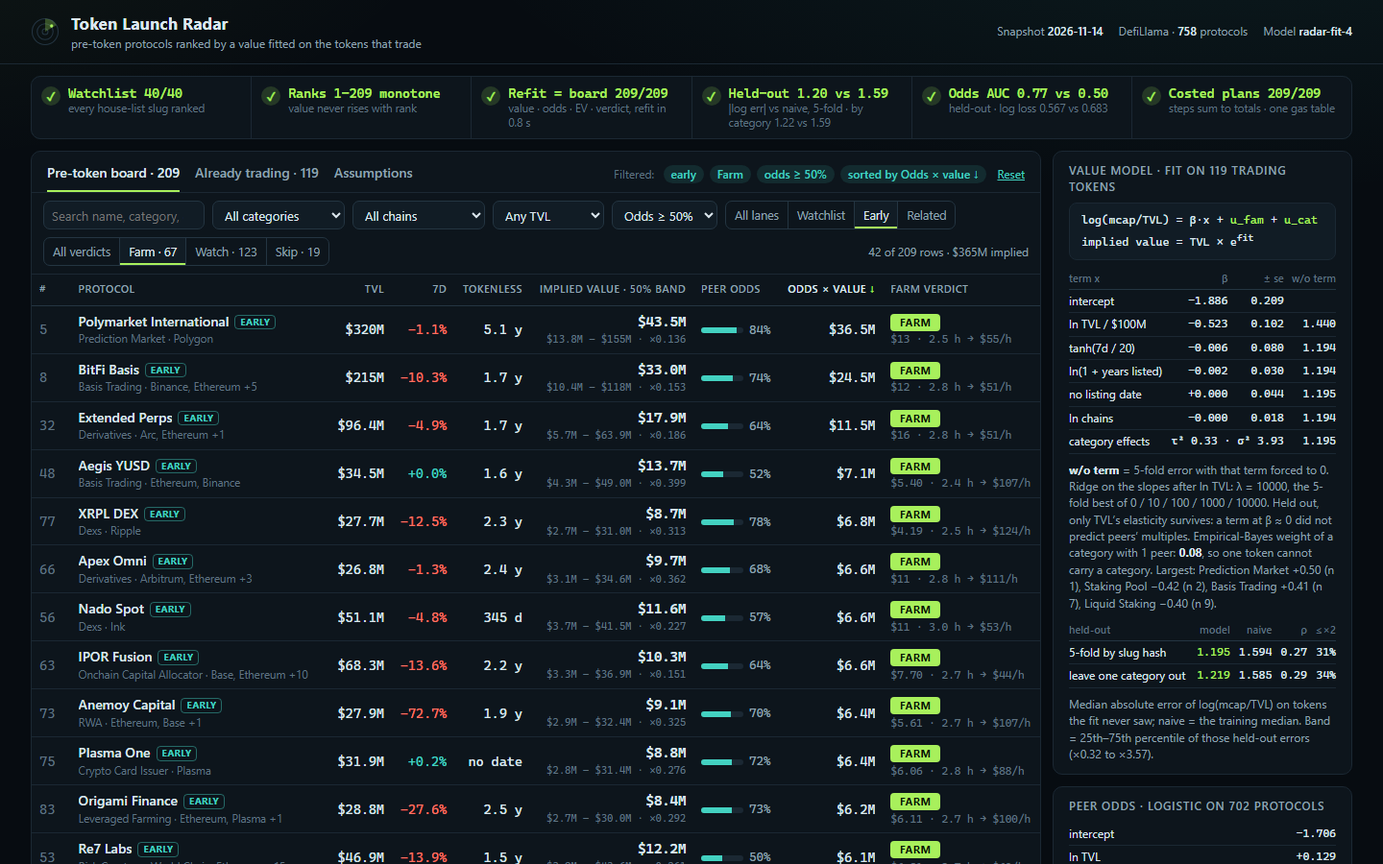
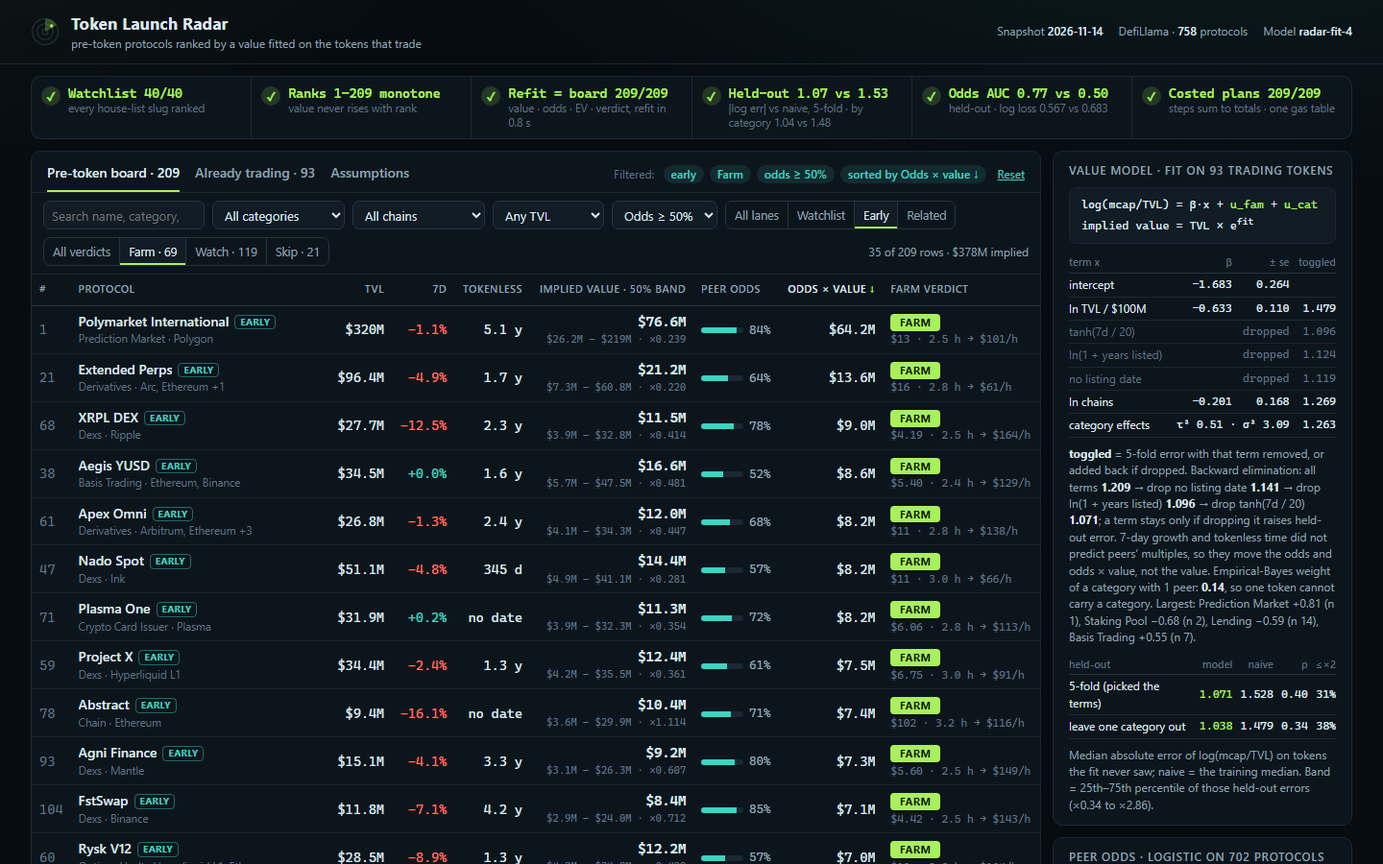
Peers follow the house rule; terms chosen by backward elimination on held-out error
The value fit now learns from the 93 trading protocols the watchlist rule would keep (no CEX, no
wrapped, staked or bridged category, no versioned name), so a bridge carrying its chain's token or
"Aave V2" carrying AAVE no longer sets multiples. A shared ridge is replaced by backward
elimination on 5-fold error: ln TVL (-0.63 +/- 0.11), ln chains and category effects stay; 7-day
change, years listed and the no-date flag each raise held-out error and are dropped, so they move
the odds and odds x value instead. Held-out: 5-fold 1.07 vs 1.53 naive, leave-one-category-out
1.04 vs 1.48. The page shows the elimination path, each term's error when toggled and dropped terms
in the detail view; README model section rewritten to match.

diff --git a/dashboard/app.js b/dashboard/app.js
@@ -107,21 +107,23 @@
     var cats = Object.keys(b.cat.groups).map(function (k) { return [k, b.cat.groups[k]]; }).sort(function (x, y) { return Math.abs(y[1].u) - Math.abs(x[1].u); }).slice(0, 4);
     return '<aside class="rail"><div class="panel pad"><h3>Value model · fit on ' + b.n + ' trading tokens</h3>' +
       '<div class="formula">log(mcap/TVL) = β·x + <em>u_fam</em> + <em>u_cat</em><br>implied value = TVL × e<sup>fit</sup></div>' +
-      '<table class="mini coef"><thead><tr><th>term x</th><th class="n">β</th><th class="n">± se</th><th class="n">w/o term</th></tr></thead><tbody>' +
-      M.TERMS.map(function (t, j) {
-        return '<tr><td>' + esc(t) + '</td><td class="n">' + sg(b.beta[j]) + '</td><td class="n">' + b.se[j].toFixed(3) + '</td><td class="n">' + (j ? ab[j - 1].mdae.toFixed(3) : '') + '</td></tr>';
-      }).join('') +
-      '<tr><td>category effects</td><td class="n" colspan="2">τ² ' + b.cat.tau2.toFixed(2) + ' · σ² ' + b.cat.sigma2.toFixed(2) + '</td><td class="n">' + ab[ab.length - 1].mdae.toFixed(3) + '</td></tr></tbody></table>' +
-      '<p><b>w/o term</b> = 5-fold error with that term forced to 0. Ridge on the slopes after ln TVL: λ = ' + b.lambda + ', the 5-fold best of ' + R.ridge.map(function (g) { return g[0]; }).join(' / ') + '. Held out, only TVL’s elasticity survives: a term at β ≈ 0 did not predict peers’ multiples. Empirical-Bayes weight of a category with 1 peer: <b>' + (b.cat.tau2 / (b.cat.tau2 + b.cat.sigma2)).toFixed(2) + '</b>, so one token cannot carry a category. Largest: ' +
+      '<table class="mini coef"><thead><tr><th>term x</th><th class="n">β</th><th class="n">± se</th><th class="n">toggled</th></tr></thead><tbody>' +
+      M.PARTS.map(function (t, j) {
+        var on = !b.off[j], a = j ? ab[j - 1] : null, mid = j === 6 ? '<td class="n" colspan="2">' + (on ? 'τ² ' + b.cat.tau2.toFixed(2) + ' · σ² ' + b.cat.sigma2.toFixed(2) : 'dropped') + '</td>' : on ? '<td class="n">' + sg(b.beta[j]) + '</td><td class="n">' + b.se[j].toFixed(3) + '</td>' : '<td class="n" colspan="2">dropped</td>';
+        return '<tr class="' + (on ? '' : 'off') + '"><td>' + esc(t) + '</td>' + mid + '<td class="n">' + (a ? a.mdae.toFixed(3) : '') + '</td></tr>';
+      }).join('') + '</tbody></table>' +
+      '<p><b>toggled</b> = 5-fold error with that term removed, or added back if dropped. Backward elimination: ' + R.path.map(function (s, i) { return (i ? 'drop ' : '') + esc(s[0]) + ' <b>' + s[1].toFixed(3) + '</b>'; }).join(' → ') + '; a term stays only if dropping it raises held-out error. ' +
+      (b.off[2] && b.off[3] ? '7-day growth and tokenless time did not predict peers’ multiples, so they move the odds and odds × value, not the value. ' : '') +
+      'Empirical-Bayes weight of a category with 1 peer: <b>' + (b.cat.tau2 / (b.cat.tau2 + b.cat.sigma2)).toFixed(2) + '</b>, so one token cannot carry a category. Largest: ' +
       cats.map(function (c) { return esc(c[0]) + ' ' + sg(c[1].u, 2) + ' (n ' + c[1].n + ')'; }).join(', ') + '.</p>' +
       '<table class="mini"><thead><tr><th>held-out</th><th class="n">model</th><th class="n">naive</th><th class="n">ρ</th><th class="n">≤×2</th></tr></thead><tbody>' +
-      [['5-fold by slug hash', kf], ['leave one category out', lc]].map(function (h) {
+      [['5-fold (picked the terms)', kf], ['leave one category out', lc]].map(function (h) {
         return '<tr><td>' + h[0] + '</td><td class="n good">' + h[1].mdae.toFixed(3) + '</td><td class="n">' + h[1].base_mdae.toFixed(3) + '</td><td class="n">' + h[1].rho.toFixed(2) + '</td><td class="n">' + od(h[1].within2) + '</td></tr>';
       }).join('') + '</tbody></table>' +
       '<p>Median absolute error of log(mcap/TVL) on tokens the fit never saw; naive = the training median. Band = 25th–75th percentile of those held-out errors (×' + Math.exp(R.band[0]).toFixed(2) + ' to ×' + Math.exp(R.band[1]).toFixed(2) + ').</p></div>' +
       '<div class="panel pad"><h3>Peer odds · logistic on ' + pop.length + ' protocols</h3><table class="mini"><tbody>' +
       ['intercept', 'ln TVL', 'tanh(7d / 20)', 'ln(1 + years listed)', 'no listing date', 'ln chains'].map(function (t, j) { return '<tr><td>' + t + '</td><td class="n">' + sg(R.odds.b[j]) + '</td></tr>'; }).join('') +
-      '</tbody></table><p>Plus ridge-shrunk family and category terms (λ ' + best.lambda + ' by 5-fold log loss). Out of fold: AUC <b>' + best.auc.toFixed(3) + '</b>, log loss ' + best.logloss.toFixed(3) + ' vs ' + best.base_logloss.toFixed(3) + ' for the base rate. Growing TVL and few years listed mean a token is less common so far.</p></div>' +
+      '</tbody></table><p>Plus ridge-shrunk family and category terms (λ ' + best.lambda + ' by 5-fold log loss). Out of fold: AUC <b>' + best.auc.toFixed(3) + '</b>, log loss ' + best.logloss.toFixed(3) + ' vs ' + best.base_logloss.toFixed(3) + ' for the base rate. ' + (R.odds.b[2] < 0 ? 'Growing' : 'Falling') + ' TVL and ' + (R.odds.b[3] > 0 ? 'fewer' : 'more') + ' years listed make a token less common so far.</p></div>' +
       '<div class="panel pad"><h3>Verdict rule</h3><p>' + vtag('Farm') + ' net ≥ $' + A.farm_hour + '/h, payoff ≥ ' + A.farm_roi + '× cost, odds ≥ ' + od(A.farm_odds) + '<br>' + vtag('Watch') + ' positive but short of one bar<br>' + vtag('Skip') + ' expected payoff below cost</p></div></aside>';
   }
 
@@ -268,7 +270,7 @@
     var r = D.rows.filter(function (q) { return q.slug === slug; })[0];
     if (!r) { app.innerHTML = '<p class="empty">No protocol ' + esc(slug) + ' on this board. <a href="#">Back to the board</a></p>'; return; }
     var m = r.m, t = m.terms, e = m.econ, pl = r.plan, cg = R.value.cat.groups[r.cat || 'Uncategorised'], fg = R.value.fam.groups[r.fam];
-    var vrow = M.TERMS.map(function (name, j) { return '<tr><td>' + esc(name) + '</td><td class="n">' + t.x[j].toFixed(3) + '</td><td class="n">' + sg(R.value.beta[j]) + '</td><td class="n">' + sg(t.parts[j]) + '</td></tr>'; }).join('');
+    var off = R.value.off, vrow = M.TERMS.map(function (name, j) { return '<tr class="' + (off[j] ? 'off' : '') + '"><td>' + esc(name) + '</td><td class="n">' + t.x[j].toFixed(3) + '</td><td class="n">' + (off[j] ? 'dropped' : sg(R.value.beta[j])) + '</td><td class="n">' + sg(t.parts[j]) + '</td></tr>'; }).join('');
     vrow += '<tr><td>family: ' + esc(r.fam) + '<span class="why">' + (fg ? fg.n + ' peers, EB weight ' + fg.w.toFixed(2) : 'no trading peer') + '</span></td><td></td><td></td><td class="n">' + sg(t.fam) + '</td></tr>';
     vrow += '<tr><td>category: ' + esc(r.cat || 'Uncategorised') + '<span class="why">' + (cg ? cg.n + ' peer' + (cg.n > 1 ? 's' : '') + ', mean residual ' + sg(cg.mean, 2) + ' × EB weight ' + cg.w.toFixed(2) : 'no trading peer: stays on the global fit') + '</span></td><td></td><td></td><td class="n">' + sg(t.cat) + '</td></tr>';
     var lr = r.lane === 'related' ? A.related : 1;
@@ -284,12 +286,12 @@
     app.innerHTML = '<a class="back" href="#">← Back to the board</a>' +
       '<section class="panel"><div class="dhead"><div><h1>' + esc(r.name) + tag(r.lane) + '</h1>' +
       '<div class="facts">Rank <b>#' + r.rank + '</b> of ' + N + ' · ' + esc(r.cat || 'Uncategorised') + ' · TVL <b>' + usd(r.tvl) + '</b> ' + pct(r.c7) + ' 7d · listed ' + esc(r.listed || 'n/a') + ' (' + age(r.age) + ' with no token recorded) · ' + esc(r.chains.slice(0, 5).join(', ')) + (r.chains.length > 5 ? ' +' + (r.chains.length - 5) : '') + '</div></div>' +
-      '<div class="stats"><div class="big"><b>' + usd(r.v) + '</b><span>implied · 50% ' + usd(r.lo) + '–' + usd(r.hi) + ' · 80% ' + usd(r.v * Math.exp(R.band80[0])) + '–' + usd(r.v * Math.exp(R.band80[1])) + '</span></div>' +
+      '<div class="stats"><div class="big"><b>' + usd(r.v) + '</b><span>implied value · 50% band ' + usd(r.lo) + '–' + usd(r.hi) + '</span></div>' +
       '<div><b>' + od(r.odds) + '</b><span>peer odds</span></div><div><b>' + usd(r.ev) + '</b><span>odds × value</span></div><div>' + vtag(r.vd) + '<span>' + esc(e.why) + '</span></div></div></div>' +
       (r.rel ? '<p class="note-rel">Related token: ' + esc(r.rel) + '. It stays on the board at ×' + A.related + ' and is flagged.</p>' : '') + '</section>' +
-      '<div class="dgrid"><section class="panel pad"><h3>Implied value, term by term</h3><table class="mini terms"><thead><tr><th>term</th><th class="n">x</th><th class="n">β</th><th class="n">β·x</th></tr></thead><tbody>' + vrow +
+      '<div class="dgrid"><section class="panel pad"><h3>Implied value, term by term</h3><table class="mini coef"><thead><tr><th>term</th><th class="n">x</th><th class="n">β</th><th class="n">β·x</th></tr></thead><tbody>' + vrow +
       '<tr class="total"><td>log multiple → ×' + Math.exp(t.y).toFixed(4) + (lr < 1 ? ' × ' + lr + ' related' : '') + ' × TVL ' + usd(r.tvl) + '</td><td></td><td></td><td class="n">' + sg(t.y) + '</td></tr>' +
-      '<tr class="total"><td>Implied value</td><td></td><td></td><td class="n">' + usd(m.v) + '</td></tr></tbody></table>' +
+      '<tr class="total"><td>Implied value<span class="why">bands from held-out errors: 50% ' + usd(r.lo) + '–' + usd(r.hi) + ' · 80% ' + usd(r.v * Math.exp(R.band80[0])) + '–' + usd(r.v * Math.exp(R.band80[1])) + '</span></td><td></td><td></td><td class="n">' + usd(m.v) + '</td></tr></tbody></table>' +
       '<p class="check">' + (m.v === r.v ? '<span class="good">✓</span> Refit in this page: $' + m.v.toLocaleString('en-US') + ', equal to board.json.' : '✗ Page computes $' + m.v + ', board.json says $' + r.v + '.') + '</p>' +
       '<h3 class="gap">Peer odds, term by term</h3><table class="mini"><tbody>' +
       ['intercept', 'ln TVL / $100M', 'tanh(7d / 20)', 'ln(1 + years listed)', 'no listing date', 'ln chains'].map(function (n, j) { return '<tr><td>' + n + '</td><td class="n">' + sg(od6[j]) + '</td></tr>'; }).join('') +

diff --git a/dashboard/model.js b/dashboard/model.js
@@ -5,8 +5,8 @@
 //
 // VALUE  log(mcap/TVL) of the protocols whose token trades = X·beta + family effect + category effect
 //        X = [1, ln(TVL/$100M), tanh(change_7d/20), ln(1 + years listed), no listing date, ln(chains)]
-//        beta by least squares; the slopes after ln TVL carry a ridge whose strength is picked by 5-fold
-//        error, so a term that does not hold up held-out is shrunk toward 0. Family and category effects
+//        beta by least squares. Terms are kept by backward elimination on 5-fold error: a term (or the
+//        category effects) stays only if dropping it makes held-out error worse. Family and category effects
 //        are their peers' mean residual times an empirical-Bayes weight w = n·tau² / (n·tau² + sigma²),
 //        tau² fitted by moments: a category with one trading peer barely moves off the global fit.
 //        implied value = TVL × exp(fitted log multiple); band = the 25th..75th percentile of held-out
@@ -21,7 +21,7 @@
   /** Stated assumptions: transforms, fold counts and farm economics. No value-model weight is here. */
   var A = {
     mom_scale: 20, folds: 5, backfit: 10, irls: 25, lambdas: [0.5, 2, 8, 32],
-    ridge: [0, 10, 100, 1000, 10000], related: 0.25, band: [0.25, 0.75], band80: [0.1, 0.9],
+    related: 0.25, band: [0.25, 0.75], band80: [0.1, 0.9],
     opp_rate: 0.05, share: [0.05, 0.10, 0.15], deposit: 25000, min_farmers: 1000, flat: 0.5,
     farm_hour: 40, farm_roi: 3, farm_odds: 0.2
   };
@@ -77,6 +77,7 @@
 
   // ------------------------------------------------------------ features
   var TERMS = ['intercept', 'ln TVL / $100M', 'tanh(7d / 20)', 'ln(1 + years listed)', 'no listing date', 'ln chains'];
+  var PARTS = TERMS.concat(['category effects']);
   /** p = {tvl, c7, age (days or null), nch}. */
   function x(p) {
     return [1, Math.log(p.tvl / 1e8), p.c7 === null ? 0 : Math.tanh(p.c7 / A.mom_scale),
@@ -97,20 +98,15 @@
   }
 
   /**
-   * Fit the value model on peers [{slug, cat, fam, tvl, mcap, c7, age, nch}]. o.lambda is the ridge on the
-   * standardised slopes, o.drop a term forced to zero, o.nocat turns the category effects off (ablation).
+   * Fit the value model on peers [{slug, cat, fam, tvl, mcap, c7, age, nch}]. off[j] forces term j to 0;
+   * off[6] turns the family and category effects off.
    */
-  function fitValue(peers, o) {
+  function fitValue(peers, off) {
     var X = peers.map(x), y = peers.map(function (p) { return Math.log(p.mcap / p.tvl); });
     var fk = peers.map(function (p) { return p.fam; }), ck = peers.map(function (p) { return p.cat; });
     var uf = y.map(function () { return 0; }), uc = uf.slice(), w = uf.map(function () { return 1; });
     var n = peers.length, beta, F, C, i;
-    var ridge = TERMS.map(function (t, j) {
-      if (j === o.drop) return 1e12;
-      if (j < 2) return 1e-9;
-      var col = X.map(function (r) { return r[j]; }), m = sum(col) / n;
-      return 1e-9 + o.lambda * sum(col.map(function (v) { return (v - m) * (v - m); })) / n;
-    });
+    var ridge = TERMS.map(function (t, j) { return off[j] ? 1e12 : 1e-9; });
     for (var it = 0; it < A.backfit; it++) {
       var yy = y.map(function (v, j) { return v - uf[j] - uc[j]; });
       beta = wls(X, yy, w, ridge);
@@ -118,13 +114,13 @@
       F = eb(r, fk);
       var r2 = r.map(function (v, j) { return v - F.groups[fk[j]].u; });
       C = eb(r2, ck);
-      if (o.nocat) [F, C].forEach(function (E) { Object.keys(E.groups).forEach(function (k) { E.groups[k].w = E.groups[k].u = 0; }); });
+      if (off[6]) [F, C].forEach(function (E) { Object.keys(E.groups).forEach(function (k) { E.groups[k].w = E.groups[k].u = 0; }); });
       for (i = 0; i < y.length; i++) { uf[i] = F.groups[fk[i]].u; uc[i] = C.groups[ck[i]].u; }
     }
     // standard errors: sigma² × diag((X'X + ridge)^-1), one solve per term
     var P = TERMS.length, XtX = TERMS.map(function (t, j) { return TERMS.map(function (u, k) { return sum(X.map(function (r) { return r[j] * r[k]; })) + (j === k ? ridge[j] : 0); }); });
     var se = TERMS.map(function (t, j) { var e = new Array(P).fill(0); e[j] = 1; return Math.sqrt(C.sigma2 * solve(XtX, e)[j]); });
-    return { beta: beta, se: se, fam: F, cat: C, n: n, lambda: o.lambda };
+    return { beta: beta, se: se, fam: F, cat: C, n: n, off: off.slice() };
   }
   /** Fitted log multiple and its parts for a protocol {tvl, c7, age, nch, fam, cat}. */
   function predict(fit, p) {
@@ -135,13 +131,13 @@
   }
 
   /** Held-out tests: k-fold by slug hash and leave-one-category-out, each against the naive median. */
-  function holdout(peers, split, o) {
+  function holdout(peers, split, off) {
     var y = [], yh = [], yb = [], cap = [], caph = [], capb = [], slug = [];
     var keys = peers.map(split), names = keys.filter(function (k, i) { return keys.indexOf(k) === i; }).sort();
     names.forEach(function (k) {
       var train = peers.filter(function (p, i) { return keys[i] !== k; }), test = peers.filter(function (p, i) { return keys[i] === k; });
       if (!train.length) return;
-      var fit = fitValue(train, o), base = median(train.map(function (p) { return Math.log(p.mcap / p.tvl); }));
+      var fit = fitValue(train, off), base = median(train.map(function (p) { return Math.log(p.mcap / p.tvl); }));
       test.forEach(function (p) {
         var h = predict(fit, p).y, l = Math.log(p.tvl);
         slug.push(p.slug); y.push(Math.log(p.mcap / p.tvl)); yh.push(h); yb.push(base);
@@ -239,11 +235,21 @@
    */
   function build(input) {
     var peers = input.peers, byFold = function (p) { return foldOf(p.slug); };
-    var grid = A.ridge.map(function (l) { var h = holdout(peers, byFold, { lambda: l, drop: -1 }); return { lambda: l, mdae: h.mdae, h: h }; });
-    var pick = grid.slice().sort(function (a, b) { return a.mdae - b.mdae || b.lambda - a.lambda; })[0], o = { lambda: pick.lambda, drop: -1 };
-    var fit = fitValue(peers, o), kf = pick.h, lo = holdout(peers, function (p) { return p.cat; }, o);
-    var ablate = TERMS.map(function (t, j) { return { term: t, mdae: j ? holdout(peers, byFold, { lambda: o.lambda, drop: j }).mdae : null }; }).slice(1)
-      .concat([{ term: 'category effects', mdae: holdout(peers, byFold, { lambda: o.lambda, drop: -1, nocat: true }).mdae }]);
+    // backward elimination: drop the term (or the category effects) whose removal most lowers the 5-fold
+    // error, and repeat while one does; every term left earned its place on tokens the fit did not see
+    var off = [false, false, false, false, false, false, false], kf = holdout(peers, byFold, off), path = [['all terms', kf.mdae]];
+    for (;;) {
+      var bestJ = -1, bestH = null;
+      for (var j = 1; j <= 6; j++) if (!off[j]) {
+        var o2 = off.slice(); o2[j] = true;
+        var h = holdout(peers, byFold, o2);
+        if (h.mdae < (bestH ? bestH.mdae : kf.mdae)) { bestJ = j; bestH = h; }
+      }
+      if (bestJ < 0) break;
+      off[bestJ] = true; kf = bestH; path.push([PARTS[bestJ], kf.mdae]);
+    }
+    var fit = fitValue(peers, off), lo = holdout(peers, function (p) { return p.cat; }, off);
+    var ablate = PARTS.map(function (t, j) { var o2 = off.slice(); o2[j] = !o2[j]; return { term: t, kept: !off[j], mdae: j ? holdout(peers, byFold, o2).mdae : null }; }).slice(1);
     var band = [quantile(kf.resid, A.band[0]), quantile(kf.resid, A.band[1])], band80 = [quantile(kf.resid, A.band80[0]), quantile(kf.resid, A.band80[1])];
     var cvs = A.lambdas.map(function (l) { return oddsCV(input.pop, l); });
     var best = cvs.slice().sort(function (a, b) { return a.logloss - b.logloss || a.lambda - b.lambda; })[0];
@@ -261,13 +267,13 @@
       return r;
     });
     return {
-      A: A, terms: TERMS, value: fit, ridge: grid.map(function (g) { return [g.lambda, g.mdae]; }), ablate: ablate,
+      A: A, terms: TERMS, value: fit, path: path, ablate: ablate,
       kfold: kf, loco: lo, band: band, band80: band80, odds: ofit, odds_cv: cvs, odds_best: best, rows: rows
     };
   }
 
   globalThis.RadarModel = {
-    A: A, TERMS: TERMS, ageDays: ageDays, build: build, fitValue: fitValue, predict: predict, oddsOf: oddsOf,
+    A: A, TERMS: TERMS, PARTS: PARTS, ageDays: ageDays, build: build, fitValue: fitValue, predict: predict, oddsOf: oddsOf,
     econ: econ, foldOf: foldOf, median: median, quantile: quantile
   };
 })();

diff --git a/lib/model.ts b/lib/model.ts
@@ -5,7 +5,7 @@
 // share one implementation:
 //   1. Value. log(mcap/TVL) of the snapshot's protocols whose token trades (CEXes left out) is regressed
 //      on ln TVL, tanh(change_7d/20), ln(1 + years listed), a no-date flag and ln chains, with family and
-//      category effects shrunk by empirical-Bayes weights. Ridge strength picked by 5-fold error.
+//      category effects shrunk by empirical-Bayes weights; terms kept by backward elimination on 5-fold error.
 //   2. Odds. A penalised logistic on every non-CEX protocol: how often one like this records a token.
 //   3. Plan. Each row gets a farm plan from its category, its cheapest sensible chain (the GAS table
 //      below, an assumption in US dollars per transaction), its TVL (capital) and its age (window).
@@ -118,9 +118,28 @@ export function modelInput(s: Snapshot, p: SnapshotProtocol): ModelInput {
   return { slug: p.slug, cat: p.category ?? 'Uncategorised', fam: familyOf(p.category), tvl: p.tvl_usd, mcap: p.mcap_usd, c7: p.change_7d, age: ageDays(s.as_of, p.listed_at), nch: p.chains.length };
 }
 
-/** The value fit's peers: protocols whose token trades, with a market cap and TVL; CEXes left out. */
+/** A name ending in a version marker ("Aave V2", "X 2.0"): the house watchlist rule's own test. */
+const VERSION = /\s(v\d+(\.\d+)?|\d+\.\d+)$/i;
+
+/** Why a protocol whose token trades is kept out of the value fit, or null when it is a peer. */
+export function peerSkip(p: SnapshotProtocol): string | null {
+  if (p.category === 'CEX') return 'centralised exchange';
+  if (WRAP_CATEGORIES.has(p.category ?? '')) return 'wrapped, staked or bridged product: its cap is the parent token\'s';
+  if (VERSION.test(p.name)) return 'versioned product: its cap is the parent token\'s';
+  return null;
+}
+
+/** Protocols whose token trades, with a market cap and TVL. */
+export function tradingOf(s: Snapshot): SnapshotProtocol[] {
+  return s.protocols.filter((p) => p.gecko_id !== null && p.mcap_usd !== null && p.mcap_usd > 0 && p.tvl_usd > 0);
+}
+
+/**
+ * The value fit's peers: the trading protocols the house watchlist rule would keep, so the fit learns
+ * from the same kind of protocol the board ranks (no CEX, no wrapped, staked, bridged or versioned product).
+ */
 export function peersOf(s: Snapshot): SnapshotProtocol[] {
-  return s.protocols.filter((p) => p.gecko_id !== null && p.mcap_usd !== null && p.mcap_usd > 0 && p.tvl_usd > 0 && p.category !== 'CEX');
+  return tradingOf(s).filter((p) => peerSkip(p) === null);
 }
 
 /** The odds fit's population: every protocol but the CEXes, labelled by whether it records a token. */
@@ -463,8 +482,8 @@ function summary(R: any) {
     terms: R.terms,
     beta: R.value.beta.map(r4),
     se: R.value.se.map(r4),
-    lambda: R.value.lambda,
-    ridge: R.ridge,
+    kept: R.value.off.map((o: boolean) => !o),
+    path: R.path,
     ablate: R.ablate,
     tau2: { family: r4(R.value.fam.tau2), category: r4(R.value.cat.tau2) },
     sigma2: r4(R.value.cat.sigma2),

diff --git a/main.ts b/main.ts
@@ -15,7 +15,7 @@
 import { copyFileSync, existsSync, mkdirSync, readFileSync, readdirSync, statSync, writeFileSync } from 'node:fs';
 import { join } from 'node:path';
 import { fileURLToPath } from 'node:url';
-import { FAMILIES, GAS, GAS_DEFAULT, MODEL_VERSION, RM, SnapshotError, boardIssue, buildRadar, median, parseSnapshot, recordsToken, stepStrings, verdictLine } from './lib/model.ts';
+import { FAMILIES, GAS, GAS_DEFAULT, MODEL_VERSION, RM, SnapshotError, boardIssue, buildRadar, median, parseSnapshot, peerSkip, recordsToken, stepStrings, tradingOf, verdictLine } from './lib/model.ts';
 import type { Row, Snapshot } from './lib/model.ts';
 import { buildDossier } from './vendor/makefun-board.ts';
 
@@ -141,6 +141,7 @@ const data = {
   peers: radar.peers.map((p) => [p.slug, p.name, p.category, p.symbol, p.tvl_usd, p.mcap_usd, p.change_7d, p.listed_at, p.chains.length]),
   pop: radar.pop.map((p) => [p.slug, p.category, p.tvl_usd, p.change_7d, p.listed_at, p.chains.length, recordsToken(p) ? 1 : 0]),
   excluded: radar.excluded,
+  left_out: tradingOf(snapshot).filter((p) => peerSkip(p) !== null).map((p) => [p.name, p.category, p.symbol, p.tvl_usd, p.mcap_usd, peerSkip(p)]),
   rows: radar.rows.map((r) => ({
     rank: r.rank, slug: r.slug, name: r.name, cat: r.category, fam: r.family, chains: r.chains,
     tvl: r.tvl_usd, c7: r.change_7d, listed: r.listed_at, age: r.age_days, lane: r.lane, rel: r.related_token,

diff --git a/dashboard/app.css b/dashboard/app.css
@@ -112,7 +112,8 @@ td.odds { font: 12.5px var(--mono); color: var(--mute); }
 .mini td.n, .mini th.n { padding-left: var(--s2); white-space: nowrap; }
 .mini tbody tr { cursor: default; }
 .mini tr.total td { border-top: 1px solid var(--line-2); border-bottom: 0; font-weight: 700; color: var(--lime); }
-.coef td:first-child { color: var(--ink); }
+.coef td:first-child { color: var(--ink); white-space: nowrap; }
+.coef tr.off td { color: var(--dim); }
 .why { display: block; color: var(--dim); font-size: 11.5px; }
 
 /* detail */
@@ -125,6 +126,7 @@ td.odds { font: 12.5px var(--mono); color: var(--mute); }
 .stats b { display: block; font: 700 22px/1.1 var(--mono); }
 .stats span { display: block; color: var(--mute); font-size: 11.5px; max-width: 270px; }
 .stats .big b { font-size: 30px; color: var(--lime); }
+.stats .big span { white-space: nowrap; max-width: none; }
 .stats .vd { font-size: 15px; padding: 3px 10px; margin-bottom: 3px; }
 .dgrid { display: grid; grid-template-columns: 1fr 1.25fr; gap: var(--s3); margin-top: var(--s3); align-items: start; }
 .vgrid { display: grid; grid-template-columns: 1fr 1.25fr; gap: var(--s4); align-items: start; }

diff --git a/README.md b/README.md
@@ -16,19 +16,15 @@ node tools/shoot.mjs --out out-a                          # headless Chrome scre
 
 ## How the model works
 
-Everything comes from the snapshot's own fields (`lib/model.ts`). No protocol is named anywhere in the code.
+Everything comes from the snapshot's own fields. No protocol is named anywhere in the code. The fitting lives in `dashboard/model.js`, a plain script that `main.ts` imports and that the page runs again in the browser. The board and the page share one implementation, and the page checks that its refit equals `board.json`.
 
-1. **Universe.** Rows are every watchlist slug, plus every protocol that records no token (no `gecko_id`, `symbol` or `mcap_usd`). Left out: CEXes, exchange-branded products, and wrapped, staked or bridged assets, because their value is an asset that already trades. A protocol whose first distinctive name word matches a protocol that does record a token is kept, but flagged **related token** and multiplied by 0.25.
-2. **Calibration.** The 119 protocols whose token trades (with a `gecko_id`, `mcap_usd` and TVL, CEXes left out) each give a market-cap/TVL multiple. The model takes log-medians per category and per family of categories, then shrinks each toward its parent level by sample size: `(n·median + 3·parent) / (n + 3)`.
-3. **Implied value** = TVL × category multiple × momentum × track × breadth × confidence × related.
-   - momentum = `1 + 0.25·tanh(change_7d / 20)`, bounded between 0.75 and 1.25
-   - track (days listed with no token) = 0.70 rising to 1.10 at 540 days, then easing to 0.95 at 5 years
-   - breadth = `0.97 + 0.055·ln(chains)`, capped at 1.15
-   - confidence = 0.85 at $5M TVL, rising to 1.00 at $1B
-4. **Band.** low and high = value × e^∓h, where h is the standard error of the category's median multiple.
-5. **Farm plan.** Each protocol gets steps for its category (a curator vault deposit, a lending loop, a CDP mint, a DEX LP, perp volume and so on). The plan runs on its cheapest sensible chain. Costs use a stated gas table in dollars per transaction, capital scales with TVL, and the holding window depends on age. Each step lists its capital, gas, fees and time. The plan also shows the same plan's cost on each of the protocol's chains.
+1. **Universe** (`lib/model.ts`). Rows are every watchlist slug, plus every protocol that records no token (no `gecko_id`, `symbol` or `mcap_usd`). Left out: CEXes, exchange-branded products, and wrapped, staked or bridged assets, because their value is an asset that already trades. A protocol whose first distinctive name word matches a protocol that does record a token is kept, flagged **related token**, and multiplied by 0.25 (a stated assumption).
+2. **Value fit.** Peers are the 93 protocols whose token trades (`gecko_id`, `mcap_usd`, TVL) that the house watchlist rule would keep: no CEX, no wrapped, staked or bridged category, no versioned name such as "Aave V2", because those carry a parent token's cap. The fit regresses `log(mcap/TVL)` on `[1, ln(TVL/$100M), tanh(change_7d/20), ln(1 + years listed), no listing date, ln chains]` by least squares, plus family and category effects. Each effect is its peers' mean residual times an empirical-Bayes weight `n·τ²/(n·τ² + σ²)`, with τ² fitted by moments, so a category with one trading peer moves only about 14% of the way toward it. Terms are chosen by backward elimination on 5-fold error, and a term stays only if dropping it makes held-out error worse. On this snapshot the fit keeps ln TVL (elasticity −0.63 ± 0.11), ln chains and the category effects. It drops 7-day change, years listed and the no-date flag: adding any of them back raises held-out error.
+3. **Held-out tests.** 5-fold by an FNV-1a hash of the slug, and leave-one-category-out. Median absolute error of log(mcap/TVL): **1.07 vs 1.53** for the naive training median (5-fold, which also chose the terms) and **1.04 vs 1.48** leaving each category out, which played no part in choosing the terms. The 50% band is the 25th to 75th percentile of the 5-fold residuals.
+4. **Peer odds.** A penalised logistic on all 702 non-CEX protocols asks how often a protocol like this one records a token. It uses the same six terms plus ridge-shrunk family and category terms, with the ridge picked by 5-fold log loss. Out of fold: AUC 0.77, log loss 0.567 vs 0.683 for the base rate. 7-day growth and tokenless time enter here, so they move **odds × value**. The odds are a base rate, not a forecast of a launch.
+5. **Farm plan and verdict.** Each protocol gets steps for its category (a curator vault deposit, a lending loop, a CDP mint, a DEX LP, perp volume and so on) on its cheapest sensible chain. One gas table, `GAS` in `lib/model.ts`, sets dollars per transaction and per funding move. It is an assumption, not snapshot data, and the Assumptions tab prints it. Cost = gas and fees + capital × 5%/yr over the window. Payoff if a token comes = 10% (5–15%) of implied value, split half flat over TVL/$25k farmers and half pro rata to capital, then × peer odds. **Farm** needs at least $40/h net, payoff at least 3× cost and odds of at least 20%. **Watch** is positive but misses one of those. **Skip** expects less than it costs.
 
-The page (`dashboard/app.js`) does not trust these numbers. It re-runs the calibration from the peer set in `data.js`, rebuilds every row's factors from the raw figures, and reports whether its results match `board.json`. Implied value is this radar's claim of what a token would be worth if the protocol's record stayed as it is. It does not predict whether or when a token is issued.
+Implied value is this radar's claim of what a token would be worth if the protocol's record stayed as it is. It does not predict whether or when a token is issued.
 
 ---
 
